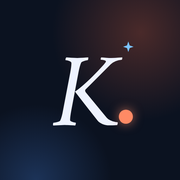
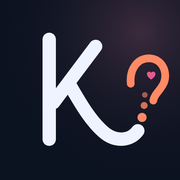
Yeni Kulis logosu: K'nin bacağı fısıltı noktalarıyla kalpli kulağa uzanıyor
Claude-Session: https://claude.ai/code/session_01Tu2pFE9fs3Wb1779seu67t

Changed region(s): [[0.0, 0.1667, 0.9444, 1.0], [0.6667, 0.2222, 0.75, 0.3056], [0.8056, 0.3889, 0.8611, 0.4444]]

diff --git a/index.html b/index.html
@@ -1265,6 +1265,20 @@ function wrapLines(ctx,text,maxW){
   if(line)lines.push(line);return lines;
 }
 function rr(ctx,x,y,w,h,r){ctx.beginPath();ctx.moveTo(x+r,y);ctx.arcTo(x+w,y,x+w,y+h,r);ctx.arcTo(x+w,y+h,x,y+h,r);ctx.arcTo(x,y+h,x,y,r);ctx.arcTo(x,y,x+w,y,r);ctx.closePath()}
+
+/* Kulis logosu: K'nin bacağı fısıltı noktalarıyla kalpli kulağa uzanıyor (icons/logo.svg ile aynı) */
+function drawLogo(x,px,py,size){
+  x.save();x.translate(px,py);x.scale(size/512,size/512);
+  rr(x,0,0,512,512,112);x.clip();x.fillStyle="#0B1220";x.fillRect(0,0,512,512);
+  const g=x.createRadialGradient(400,92,0,400,92,435);g.addColorStop(0,"#3B2B3D");g.addColorStop(1,"rgba(11,18,32,0)");x.fillStyle=g;x.fillRect(0,0,512,512);
+  x.lineCap="round";x.lineJoin="round";
+  const line=(d,c,w)=>{x.strokeStyle=c;x.lineWidth=w;x.stroke(new Path2D(d))};
+  line("M140 112V396","#EEF3FF",38);line("M152 292L272 132","#EEF3FF",38);line("M200 244C232 300 262 350 300 380C332 404 372 400 392 372","#EEF3FF",38);
+  [[404,334,13,1],[410,300,10,.8],[412,270,8,.6]].forEach(([cx,cy,r,o])=>{x.globalAlpha=o;x.fillStyle="#FF8A65";x.beginPath();x.arc(cx,cy,r,0,7);x.fill()});x.globalAlpha=1;
+  line("M372 238C368 196 392 164 426 166C462 168 478 206 466 236C456 258 440 266 436 286","#FF8A65",22);
+  x.translate(430,214);x.scale(.55,.55);x.fillStyle="#E25C8F";x.fill(new Path2D("M0 22s-22-13-22-29a12 12 0 0 1 22-6 12 12 0 0 1 22 6c0 16-22 29-22 29z"));
+  x.restore();
+}
 async function storyCanvas(p){
   try{await Promise.all(['italic 400 100px Newsreader','400 64px Newsreader','700 34px Figtree','800 30px Figtree'].map(f=>document.fonts.load(f)))}catch(e){}
   const W=1080,H=1920,cv=document.createElement("canvas");cv.width=W;cv.height=H;const x=cv.getContext("2d");
@@ -1275,15 +1289,17 @@ async function storyCanvas(p){
   let seed=p.id.split("").reduce((a,c)=>a+c.charCodeAt(0),7);const rnd=()=>{seed=(seed*9301+49297)%233280;return seed/233280};
   for(let i=0;i<70;i++){x.globalAlpha=.15+rnd()*.45;x.fillStyle="#EEF3FF";x.beginPath();x.arc(rnd()*W,rnd()*H,1+rnd()*2.2,0,7);x.fill()}x.globalAlpha=1;
   // logo
+  drawLogo(x,W/2-60,80,120);
+  x.translate(0,110);
   x.textAlign="center";x.textBaseline="alphabetic";x.fillStyle="#EEF3FF";x.font=`italic 400 112px ${SERIF}`;
   const lw=x.measureText("Kulis").width;x.fillText("Kulis",W/2-12,250);
   x.fillStyle="#FF8A65";x.beginPath();x.arc(W/2+lw/2+4,236,13,0,7);x.fill();
-  x.fillStyle="#7CC4FF";x.font=`700 34px ${SANS}`;x.fillText("İtiraf & Sohbet",W/2,315);
+  x.fillStyle="#7CC4FF";x.font=`700 34px ${SANS}`;x.fillText("İtiraf & Sohbet",W/2,315);x.translate(0,-110);
   // kart
   const cx=84,cw=W-168,pad=64;let fs=66,lines;
   x.font=`400 ${fs}px ${SERIF}`;
-  for(;fs>=40;fs-=2){x.font=`400 ${fs}px ${SERIF}`;lines=wrapLines(x,"“"+p.t+"”",cw-pad*2);if(lines.length*fs*1.32<=900)break}
-  const lh=fs*1.32,qh=lines.length*lh,ch=170+qh+150,cy=Math.max(420,(H-ch)/2+40);
+  for(;fs>=40;fs-=2){x.font=`400 ${fs}px ${SERIF}`;lines=wrapLines(x,"“"+p.t+"”",cw-pad*2);if(lines.length*fs*1.32<=760)break}
+  const lh=fs*1.32,qh=lines.length*lh,ch=170+qh+150,cy=Math.max(490,(H-ch)/2+70);
   x.save();x.shadowColor="rgba(0,0,0,.5)";x.shadowBlur=60;x.shadowOffsetY=30;rr(x,cx,cy,cw,ch,56);x.fillStyle="#131D33";x.fill();x.restore();
   x.save();rr(x,cx,cy,cw,ch,56);x.clip();const g=x.createRadialGradient(cx+cw,cy,0,cx+cw,cy,cw*.9);g.addColorStop(0,acc+"55");g.addColorStop(1,"rgba(19,29,51,0)");x.fillStyle=g;x.fillRect(cx,cy,cw,ch);x.restore();
   rr(x,cx,cy,cw,ch,56);x.strokeStyle="rgba(238,243,255,.12)";x.lineWidth=2;x.stroke();

diff --git a/sw.js b/sw.js
@@ -1,5 +1,5 @@
 // Arcana service worker: sayfa her zaman ağdan taze gelir, internet yoksa son kopya açılır.
-const CACHE = "kulis-v3";
+const CACHE = "kulis-v4";
 const CORE = ["./", "./index.html", "./manifest.webmanifest", "./icons/icon-192.png", "./icons/icon-512.png", "./icons/apple-touch-icon.png"];
 self.addEventListener("install", e => {
   e.waitUntil(caches.open(CACHE).then(c => c.addAll(CORE)).then(() => self.skipWaiting()));
